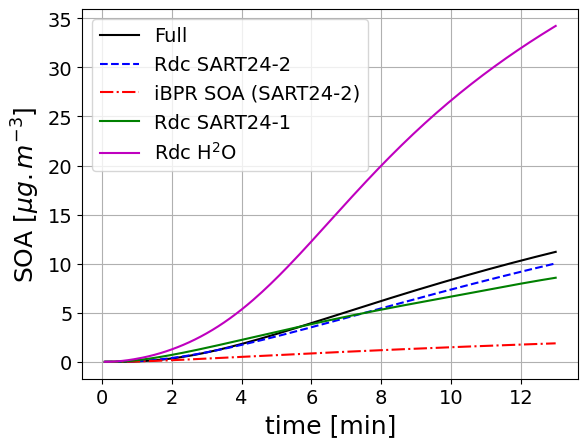
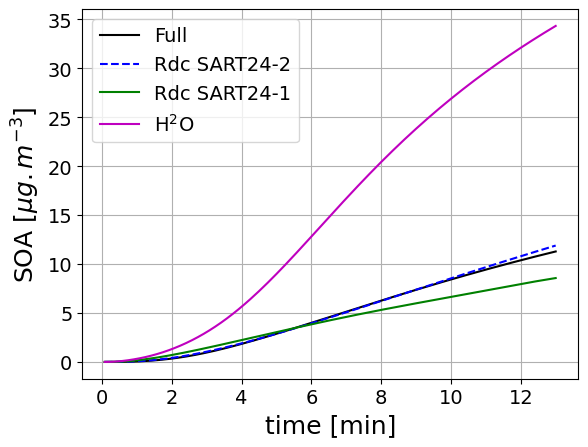
Correct toluene test case.

diff --git a/graph/toluene-aft-rdc.py b/graph/toluene-aft-rdc.py
@@ -69,9 +69,9 @@ fig = plt.figure(1,figsize = (15,15))
 plt.grid()
 plt.plot(time,ide,'k-',label='Full')
 plt.plot(time,uni,'b--',label='Rdc SART24-2')
-plt.plot(time,aio,'r-.',label='iBPR SOA (SART24-2)')
+#plt.plot(time,aio,'r-.',label='iBPR SOA (SART24-2)')
 plt.plot(time,uniRm1,'g-',label='Rdc SART24-1')
-plt.plot(time,uniH2O,'m-',label='Rdc H$^2$O')
+plt.plot(time,uniH2O,'m-',label='H$^2$O')
 plt.ylabel("SOA [$\mu g.m^{-3}$]", fontsize=18)
 plt.xlabel("time [min]", fontsize=18)
 plt.legend(loc=2)
